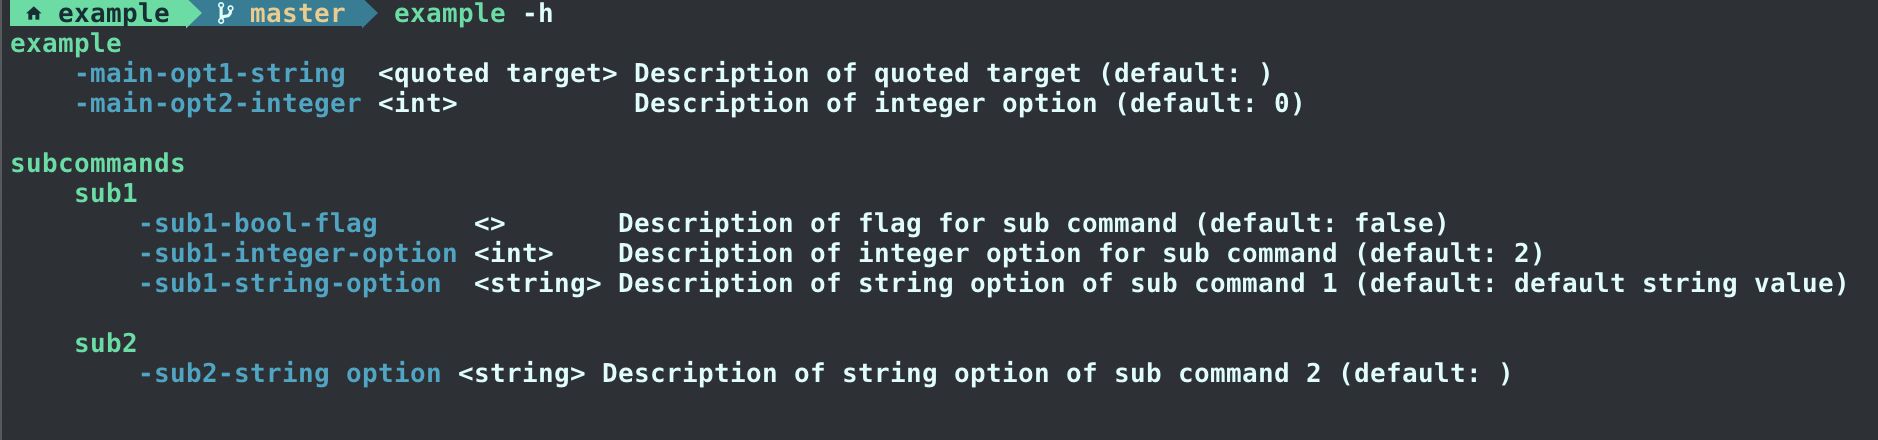
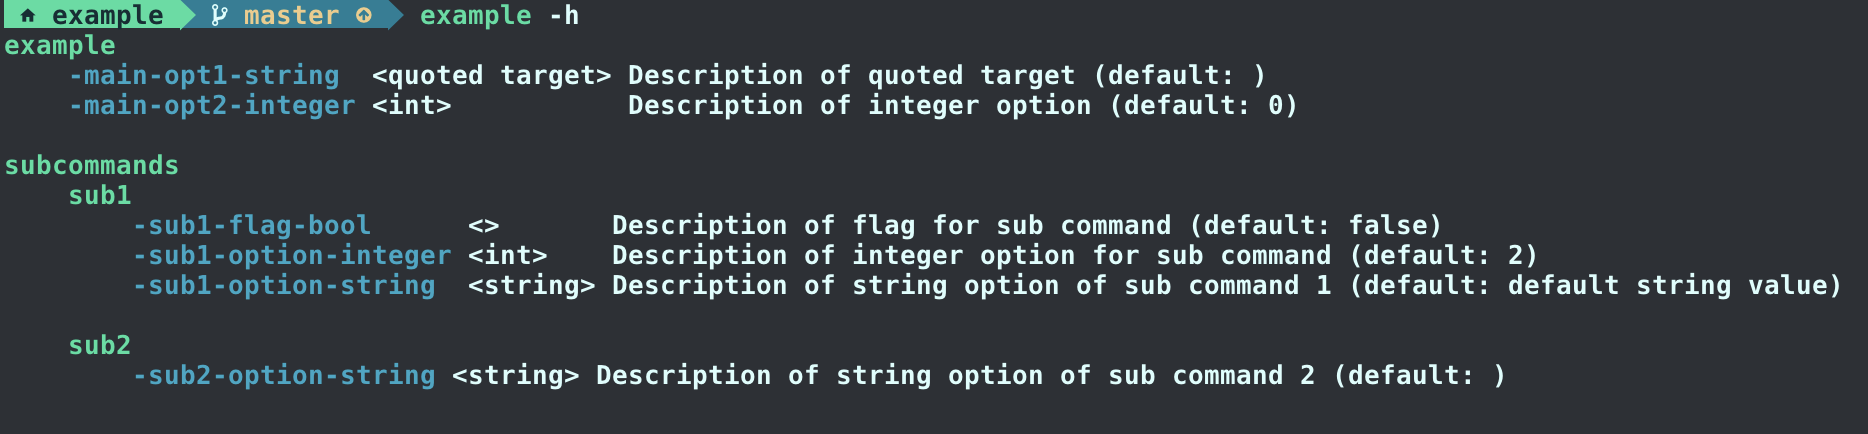
Fix: flag names

diff --git a/example/main.go b/example/main.go
@@ -13,13 +13,13 @@ func main() {
 
 	// sub command 1
 	sub1FlagSet := flag.NewFlagSet("sub1", flag.ExitOnError)
-	sub1FlagSet.String("sub1-string-option", "default string value", "Description of string option of sub command 1")
-	sub1FlagSet.Int("sub1-integer-option", 2, "Description of integer option for sub command")
-	sub1FlagSet.Bool("sub1-bool-flag", false, "Description of flag for sub command")
+	sub1FlagSet.String("sub1-option-string", "default string value", "Description of string option of sub command 1")
+	sub1FlagSet.Int("sub1-option-integer", 2, "Description of integer option for sub command")
+	sub1FlagSet.Bool("sub1-flag-bool", false, "Description of flag for sub command")
 
 	// sub command 2
 	sub2FlagSet := flag.NewFlagSet("sub2", flag.ExitOnError)
-	sub2FlagSet.String("sub2-string option", "", "Description of string option of sub command 2")
+	sub2FlagSet.String("sub2-option-string", "", "Description of string option of sub command 2")
 
 	// Optional
 	colorflag.Indent = 4               // default is 2

diff --git a/README.md b/README.md
@@ -7,7 +7,6 @@ colorflag provides colorized help for CLI applications using Go's `flag` standar
 #### Sample code
 
 ```go
-
 package main
 
 import (
@@ -23,13 +22,13 @@ func main() {
 
 	// sub command 1
 	sub1FlagSet := flag.NewFlagSet("sub1", flag.ExitOnError)
-	sub1FlagSet.String("sub1-string-option", "default string value", "Description of string option of sub command 1")
-	sub1FlagSet.Int("sub1-integer-option", 2, "Description of integer option for sub command")
-	sub1FlagSet.Bool("sub1-bool-flag", false, "Description of flag for sub command")
+	sub1FlagSet.String("sub1-option-string", "default string value", "Description of string option of sub command 1")
+	sub1FlagSet.Int("sub1-option-integer", 2, "Description of integer option for sub command")
+	sub1FlagSet.Bool("sub1-flag-bool", false, "Description of flag for sub command")
 
 	// sub command 2
 	sub2FlagSet := flag.NewFlagSet("sub2", flag.ExitOnError)
-	sub2FlagSet.String("sub2-string option", "", "Description of string option of sub command 2")
+	sub2FlagSet.String("sub2-option-string", "", "Description of string option of sub command 2")
 
 	// Optional
 	colorflag.Indent = 4               // default is 2
